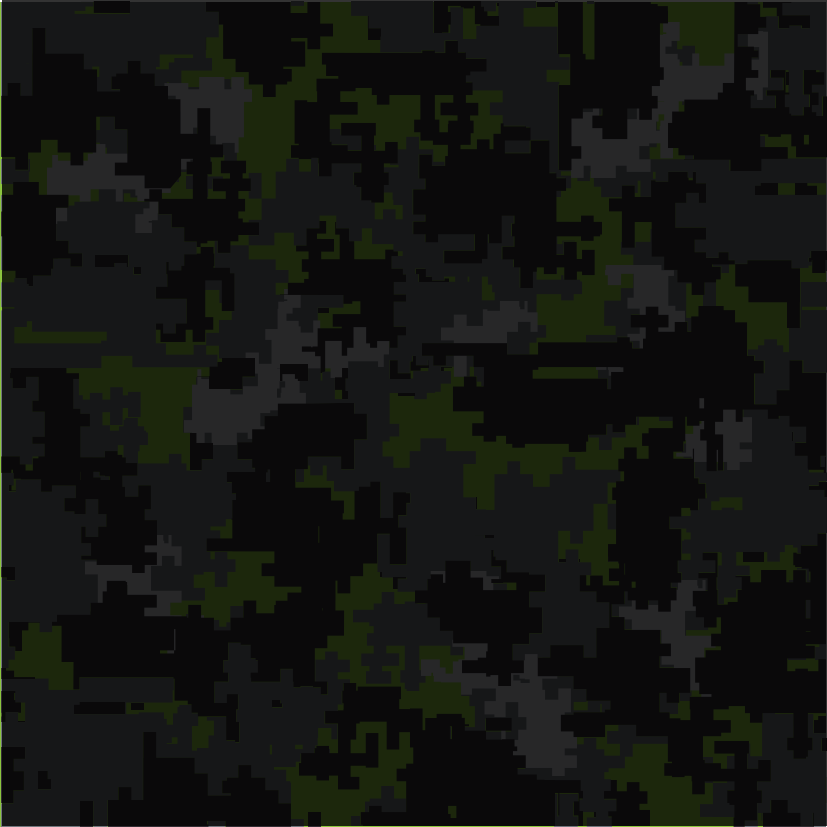
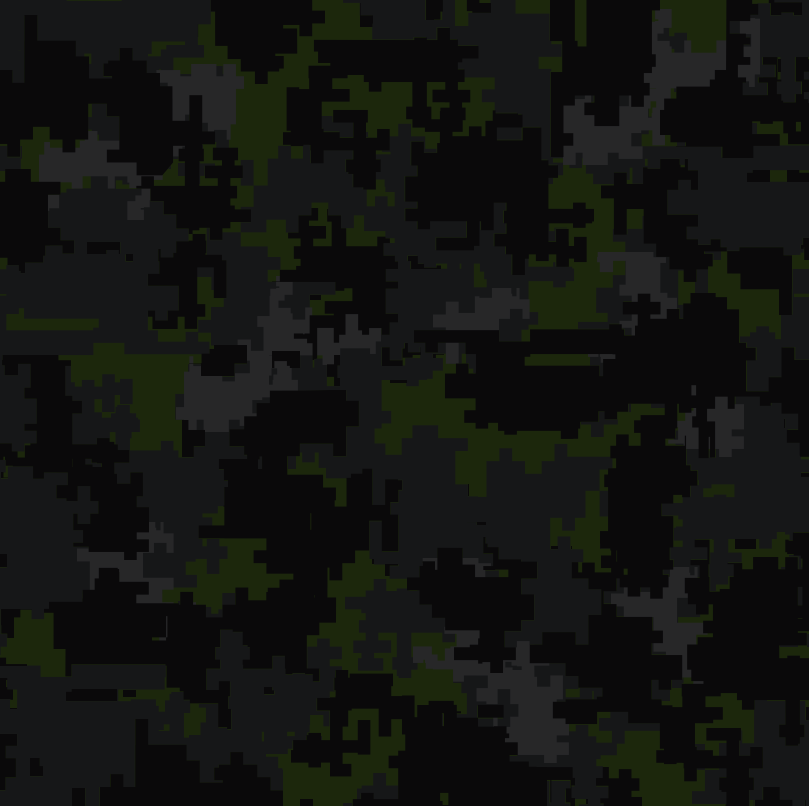
second section + bg images

diff --git a/src/app/home/home.component.html b/src/app/home/home.component.html
@@ -6,7 +6,24 @@
   </div>
 </div>
 <div class="container-fluid">
-  <div class="row">
+  <div id="first" class="row">
+    <div class="col-md-4">
+      <h2>Heading</h2>
+      <p>Donec id elit non mi porta gravida at eget metus. Fusce dapibus, tellus ac cursus commodo, tortor mauris condimentum nibh, ut fermentum massa justo sit amet risus. Etiam porta sem malesuada magna mollis euismod. Donec sed odio dui. </p>
+      <p><a class="btn btn-secondary" href="#" role="button">View details &raquo;</a></p>
+    </div>
+    <div class="col-md-4">
+      <h2>Heading</h2>
+      <p>Donec id elit non mi porta gravida at eget metus. Fusce dapibus, tellus ac cursus commodo, tortor mauris condimentum nibh, ut fermentum massa justo sit amet risus. Etiam porta sem malesuada magna mollis euismod. Donec sed odio dui. </p>
+      <p><a class="btn btn-secondary" href="#" role="button">View details &raquo;</a></p>
+    </div>
+    <div class="col-md-4">
+      <h2>Heading</h2>
+      <p>Donec sed odio dui. Cras justo odio, dapibus ac facilisis in, egestas eget quam. Vestibulum id ligula porta felis euismod semper. Fusce dapibus, tellus ac cursus commodo, tortor mauris condimentum nibh, ut fermentum massa justo sit amet risus.</p>
+      <p><a class="btn btn-secondary" href="#" role="button">View details &raquo;</a></p>
+    </div>
+  </div>
+  <div id="second" class="row">
     <div class="col-md-4">
       <h2>Heading</h2>
       <p>Donec id elit non mi porta gravida at eget metus. Fusce dapibus, tellus ac cursus commodo, tortor mauris condimentum nibh, ut fermentum massa justo sit amet risus. Etiam porta sem malesuada magna mollis euismod. Donec sed odio dui. </p>

diff --git a/src/app/home/home.component.scss b/src/app/home/home.component.scss
@@ -6,8 +6,19 @@
   background-size: cover;
   background-position: center;
   border-radius: 0;
+  margin-bottom: 0;
 
   h1, p {
     color: #ffffff;
   }
+}
+
+#first {
+  background-image: url("./img/camobg.png");
+}
+
+#second {
+  background-image: url("./img/kadenbg.png");
+  background-repeat: no-repeat;
+  background-size: cover;
 }
